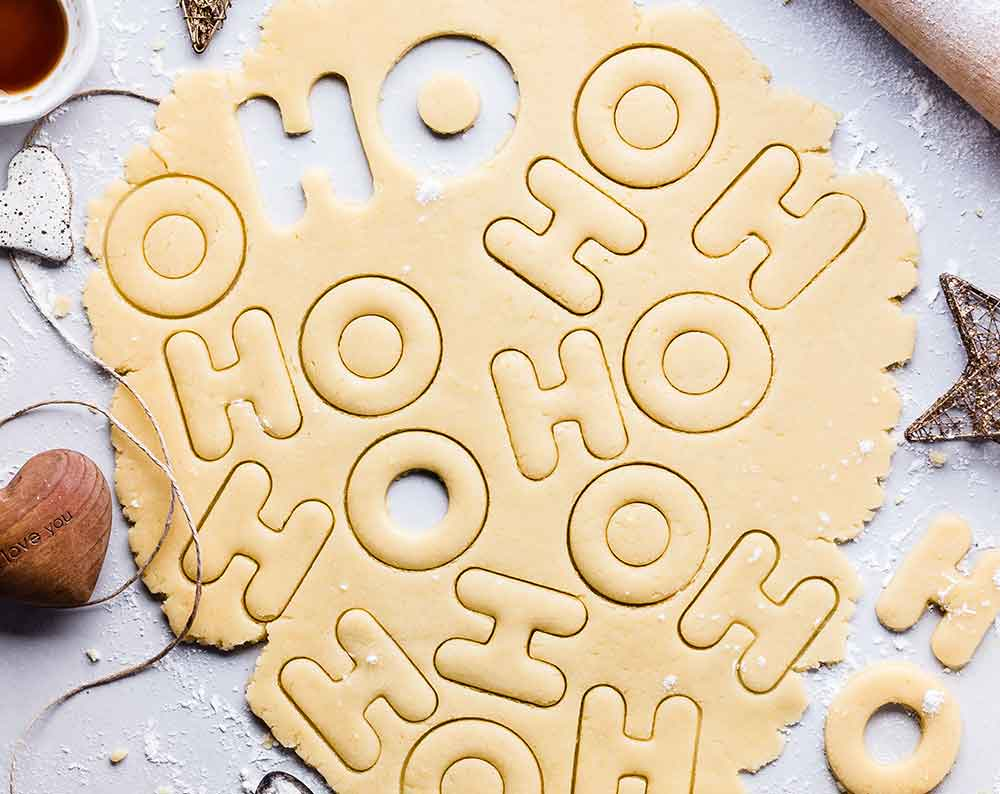
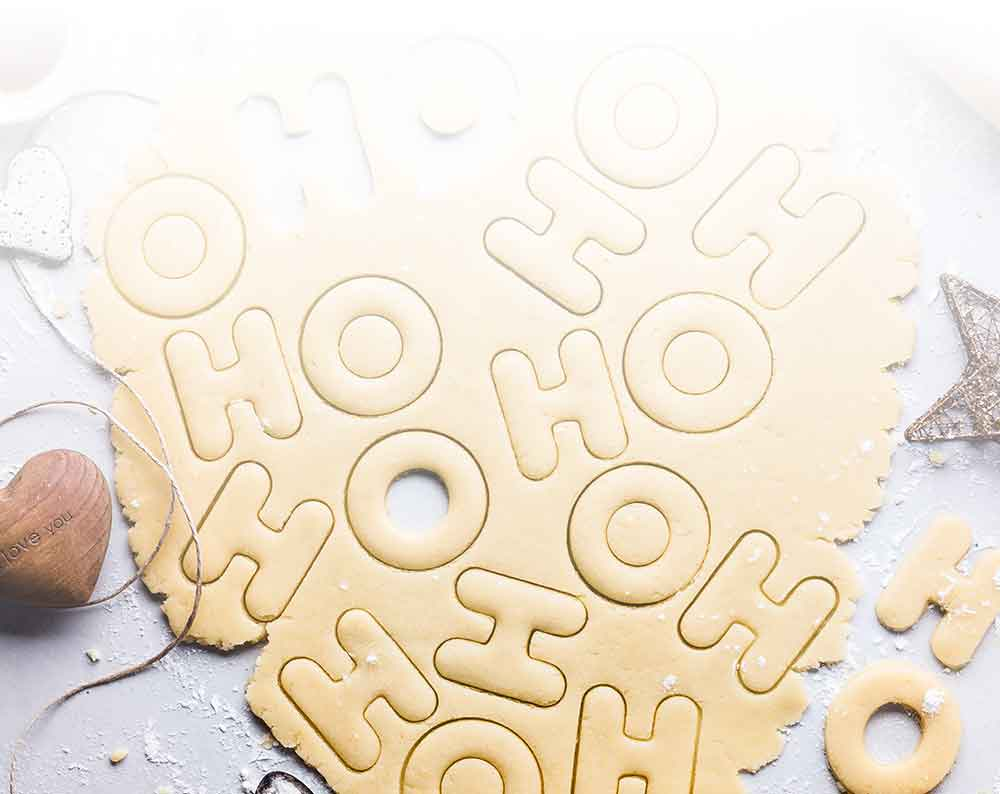
Add more content to index file and remove background image

diff --git a/index.html b/index.html
@@ -64,12 +64,13 @@
         <p class="push-11-2">With tips for baking ahead, sending cookies by mail successfully, and gluten-free baking, let’s get to the recipes. Following are some of our favourite cookie recipes. Perfect for the holidays and perfect to get started on right now!</p>
       </div>
 
-      <div class="gradient">
-        <img class="img-flex" src="images/hoho-cookies.jpg" atl="Rolled out sugar cookies with HO HO HO stamped into them." aria-label="Rolled out sugar cookies with HO HO HO stamped into them.">
+      <div class="embed embed-16by9">
+        <img class="embed-item img-flex" src="images/hoho-cookies.jpg" atl="Rolled out sugar cookies with HO HO HO stamped into them." aria-label="Rolled out sugar cookies with HO HO HO stamped into them.">
       </div>
     </section>
 
-    <section>
+    <section class="pad-t gutter">
+      <h2>New Recipes</h2>
     </section>
   </main>
 

diff --git a/css/main.css b/css/main.css
@@ -20,10 +20,6 @@ h1,
   width: 100%;
 }
 
-.gradient {
-  background-image: linear-gradient(to bottom, #fff, transparent);
-}
-
 .push-11-2 {
   margin-bottom: 1.95rem;
 }
